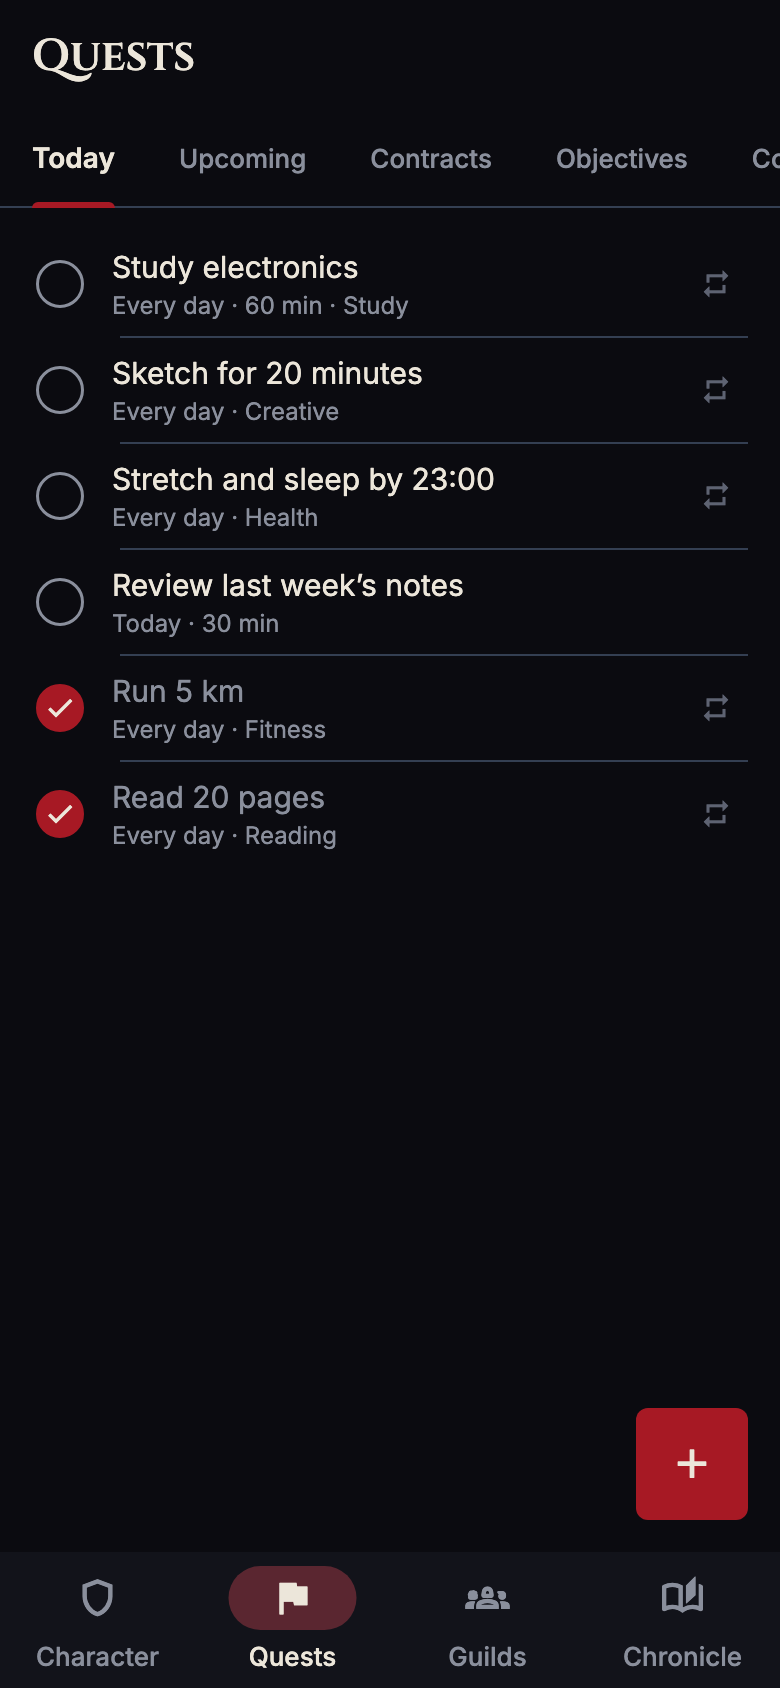
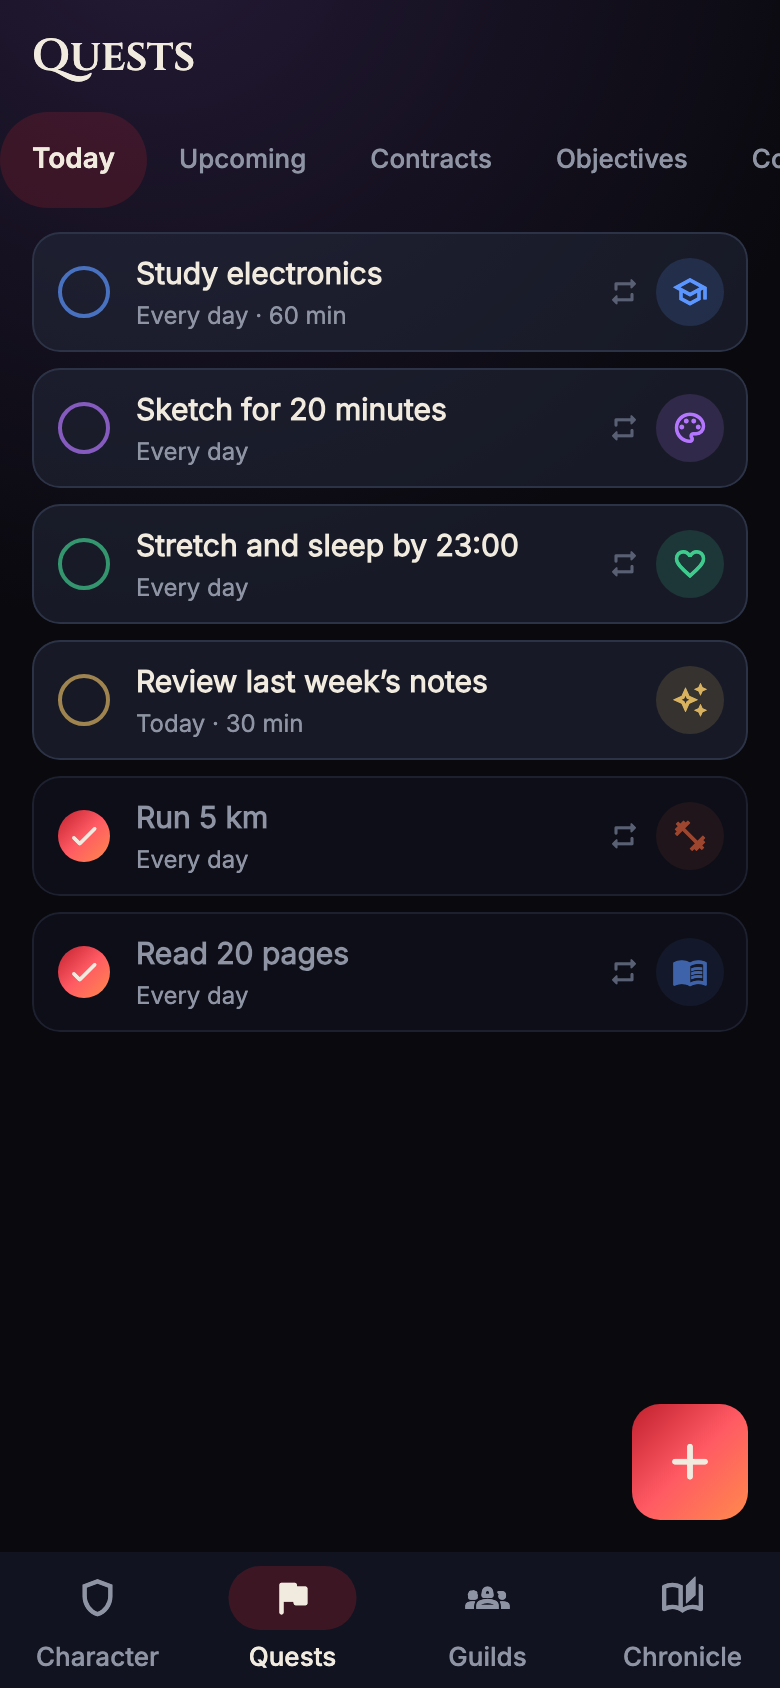
docs: design system v2, live demo link and refreshed screenshots
Documents the v2 palette, gradients, shapes, game components and the
performance budget; links the GitHub Pages demo from the README; the
README screenshots are re-rendered from the redesigned app.

diff --git a/docs/design/design-system.md b/docs/design/design-system.md
@@ -17,26 +17,44 @@ of truth — no raw colours, sizes or durations in feature code.
 5. **Calm motion.** Motion explains change (a bar filling, a card settling). Nothing loops
    for attention. Reduced-motion users get instant state changes.
 
+## Version 2 (2026-11): livelier, still dark fantasy
+
+v2 keeps the stone-and-ember identity but adds energy:
+
+- **Saturated attribute pigments** and two sparing secondary accents: `arcane` `#8B6CFF`
+  (radar fill, chronicle, class pills) and `gold` `#E2B45C` (titles, medals, milestones).
+  `emberGlow` `#FF8A4C` completes the ember gradient (`crimson → ember → emberGlow`).
+- **Gradients instead of flat fills:** stone-lit card surfaces (lighter at the top), ember
+  gradients on progress, primary buttons and the quick-add button, one radial backdrop glow
+  behind all tabs, and a static radial burst behind the reward total.
+- **Softer, modern shapes:** cards 18 px, controls 14 px, pills for buttons, chips, tab and
+  navigation indicators.
+- **Game-like components:** circular XP ring around the portrait, hexagonal attribute radar
+  (mirrored in RTL), tinted attribute and stat tiles, category badges on quest cards.
+- **Performance budget:** no blur filters or backdrop blurs; soft shadows only on a few hero
+  elements (FAB, level badge, primary button, completed seals); custom painters isolated with
+  `RepaintBoundary`; animations are single tweens that respect reduced motion.
+
 ## 2. Colour tokens
 
 ### Surfaces and ink
 
 | Token | Hex | Use | Contrast vs `void` |
 | --- | --- | --- | --- |
-| `void` | `#0B0B10` | App background | — |
-| `abyss` | `#12131A` | Lowest surface, sidebars | — |
-| `slate` | `#202A38` | Cards, panels | — |
-| `slateHigh` | `#2A3546` | Hover, selected rows, inputs | — |
-| `hairline` | `#343F52` | 1 px borders, dividers | 1.9 : 1 (decorative) |
-| `wine` | `#5A2630` | Secondary containers, selected chips | — |
-| `crimson` | `#A71924` | Primary action fill, XP fill, key events | 2.6 : 1 (fills only) |
-| `ember` | `#E0525C` | Crimson used as text/icon on dark | 5.2 : 1 |
-| `bone` | `#ECE6DA` | Headings, high-emphasis text, on-crimson text | 15.6 : 1 |
-| `ash` | `#C4C7D0` | Body text | 11.4 : 1 |
-| `ashMuted` | `#8A8F9C` | Secondary text, captions | 6.0 : 1 |
-| `ashFaint` | `#5E6372` | Disabled, decorative glyphs only | 3.2 : 1 |
+| `void` | `#09090E` | App background | — |
+| `abyss` | `#111320` | Lowest surface, sidebars | — |
+| `slate` | `#181C2B` | Cards, panels | — |
+| `slateHigh` | `#222839` | Hover, selected rows, inputs | — |
+| `hairline` | `#2C3346` | 1 px borders, dividers | 1.9 : 1 (decorative) |
+| `wine` | `#4A1A26` | Secondary containers, selected chips | — |
+| `crimson` | `#C0202D` | Primary action fill, XP fill, key events | fills only (bone on crimson 5.1 : 1) |
+| `ember` | `#FF5A64` | Crimson used as text/icon on dark | 6.4 : 1 |
+| `bone` | `#F1EBDF` | Headings, high-emphasis text, on-crimson text | 15.6 : 1 |
+| `ash` | `#C9CCD6` | Body text | 11.4 : 1 |
+| `ashMuted` | `#8E94A3` | Secondary text, captions | 6.0 : 1 |
+| `ashFaint` | `#5A6074` | Disabled, decorative glyphs only | 3.2 : 1 |
 
-Text on `crimson` uses `bone` (6.3 : 1). Body text never uses `ashFaint`.
+Text on `crimson` uses `bone` (5.1 : 1). Body text never uses `ashFaint`.
 
 ### Attributes
 Muted pigments, distinguishable for common colour-vision deficiencies when paired with
@@ -44,15 +62,15 @@ their sigils (colour is never the only signal).
 
 | Attribute | Token | Hex | Sigil |
 | --- | --- | --- | --- |
-| Strength | `attrStrength` | `#B5543C` rust | upward chevron over bar |
-| Intelligence | `attrIntelligence` | `#5B7FB8` steel | open eye in diamond |
-| Discipline | `attrDiscipline` | `#9A8A6A` tarnished brass | vertical blade between rails |
-| Creativity | `attrCreativity` | `#8A5FA8` amethyst | spiral quill |
-| Vitality | `attrVitality` | `#4E8C6A` moss | leaf in circle |
-| Social | `attrSocial` | `#C07A8A` rose | three linked rings |
+| Strength | `attrStrength` | `#F0663E` rust | upward chevron over bar |
+| Intelligence | `attrIntelligence` | `#5B95FF` steel | open eye in diamond |
+| Discipline | `attrDiscipline` | `#D9B260` tarnished brass | vertical blade between rails |
+| Creativity | `attrCreativity` | `#B476FF` amethyst | spiral quill |
+| Vitality | `attrVitality` | `#3FCB8E` moss | leaf in circle |
+| Social | `attrSocial` | `#FF73A8` rose | three linked rings |
 
 ### Feedback
-`success` = `attrVitality`, `warning` `#C8933A`, `danger` = `ember`, `info` = `attrIntelligence`.
+`success` = `attrVitality`, `warning` `#F0A93B`, `danger` = `ember`, `info` = `attrIntelligence`.
 
 ## 3. Typography
 
@@ -76,8 +94,8 @@ runtime.
 ## 4. Space, shape, elevation
 
 - **Spacing scale (4-pt):** `xs 4`, `sm 8`, `md 12`, `lg 16`, `xl 24`, `xxl 32`, `xxxl 48`.
-- **Radius:** `sharp 2` (chips, bars), `soft 6` (cards, inputs, buttons), `seal 999` (only
-  avatars and seals).
+- **Radius (v2):** `sharp 8` (small badges), `soft 14` (inputs, tiles), `card 18` (cards),
+  `pill 999` (buttons, chips, indicators, bars).
 - **Borders:** 1 px `hairline`; focused elements get a 1 px `ember` outline plus a 2 px
   outer glow at 24 % alpha (also the keyboard focus ring).
 - **Elevation:** expressed by surface step (`void → abyss → slate → slateHigh`), never by

diff --git a/README.md b/README.md
@@ -9,6 +9,8 @@ its history, and the guilds it belongs to.
 
 Android · iOS · Web (desktop browsers) — English & فارسی (full RTL) from day one
 
+**[▶ Try the live web demo](https://alikahroodiee.github.io/wyrd/)** — runs in your browser with sample data; nothing leaves your device.
+
 [![License: PolyForm Strict 1.0.0](https://img.shields.io/badge/license-PolyForm%20Strict%201.0.0-A71924)](LICENSE.md)
 
 </div>
